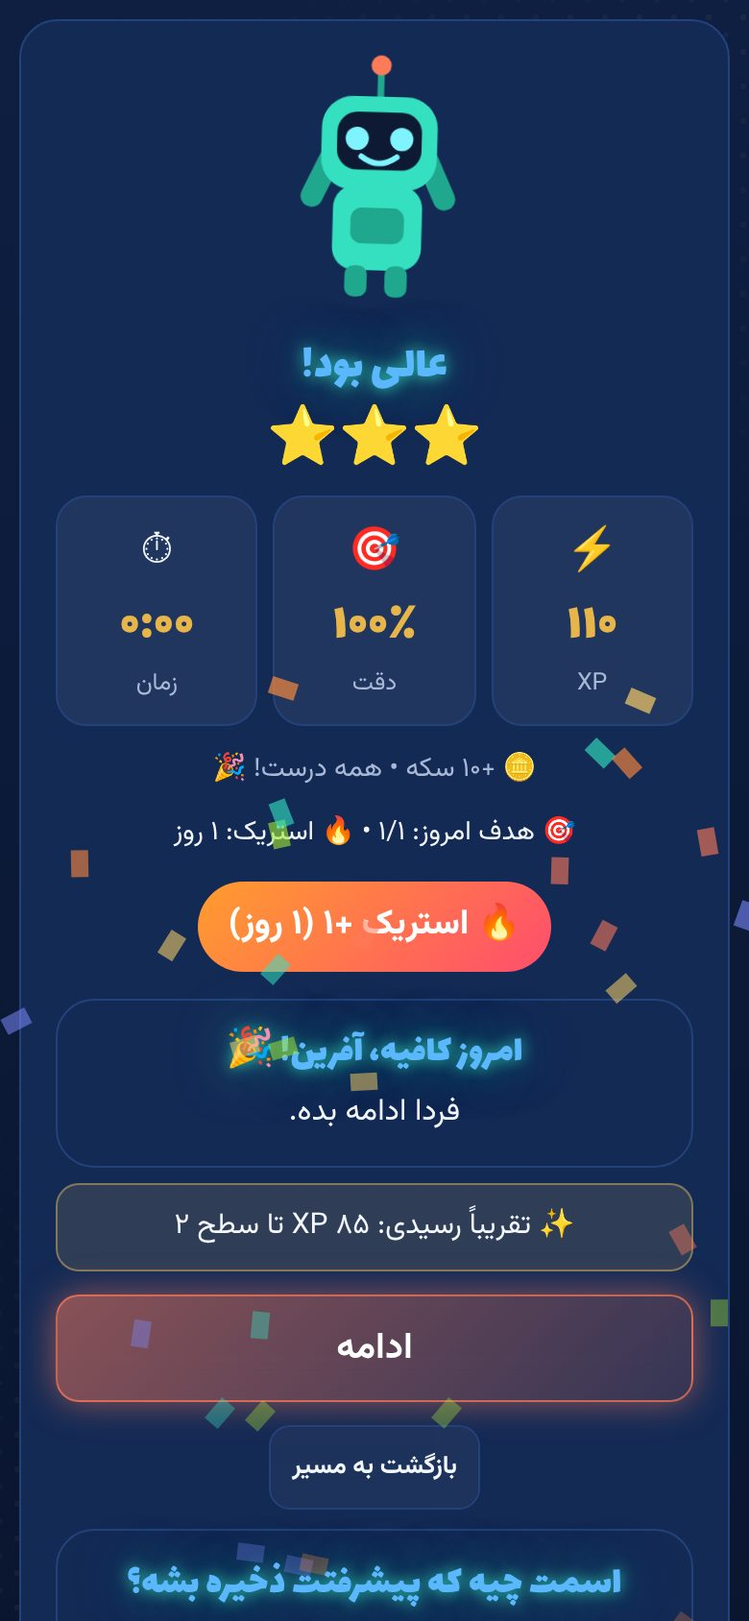
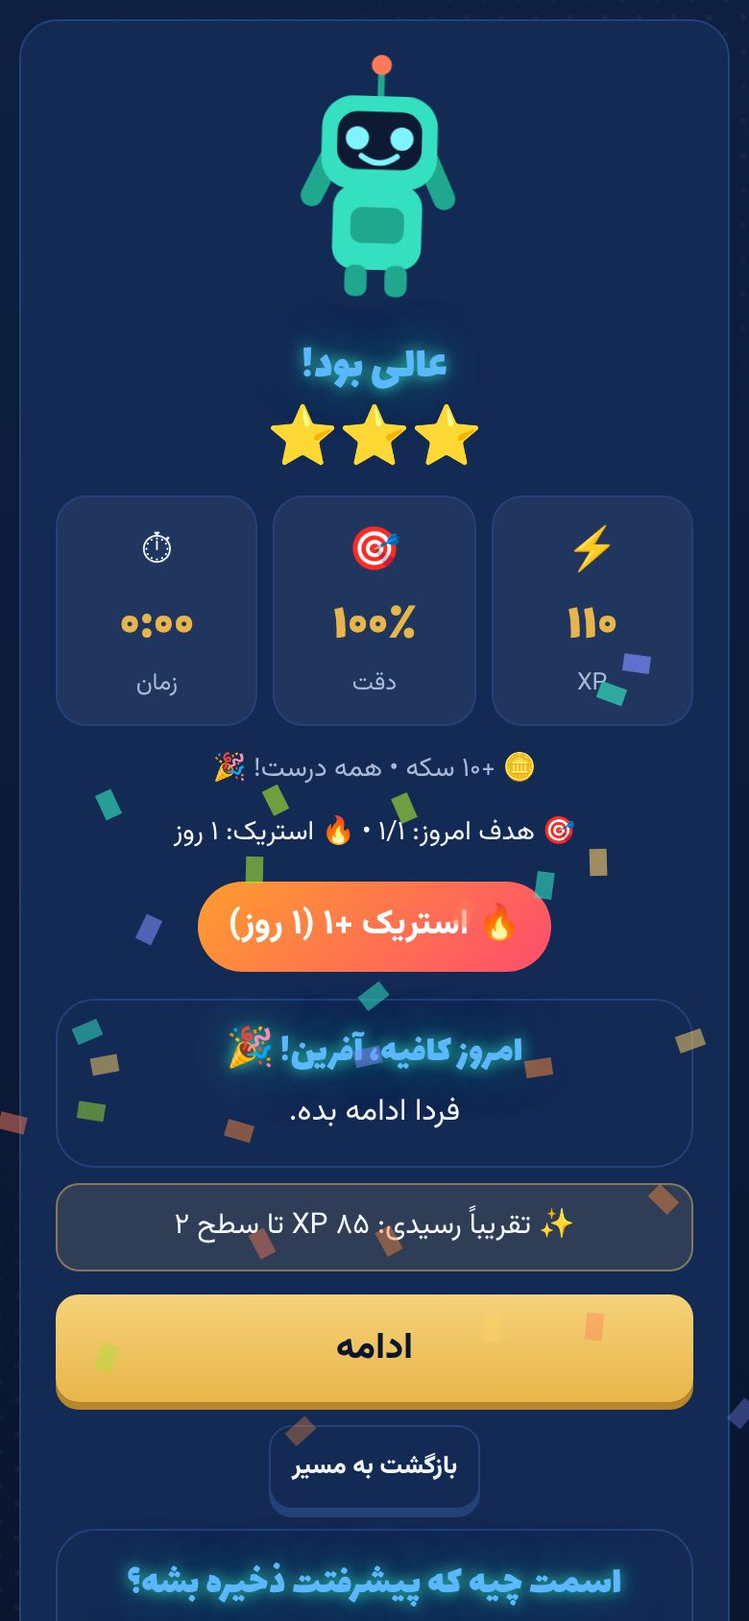
riazi-land: ui P0-2 — button system (gold primary, surface secondary, neutral disabled) + single-primary test
Claude-Session: https://claude.ai/code/session_01VDPptadfr94w4emVaDL2Bd

diff --git a/riazi-land/index.html b/riazi-land/index.html
@@ -2800,6 +2800,22 @@ body:before{content:"";position:fixed;inset:0;pointer-events:none;z-index:0;opac
 .lsn-bar.ok{background:#0F3A44;border-top-color:var(--c-ok)}
 .lsn-bar.bad{background:#3A2440;border-top-color:var(--c-bad)}
 .card,.mission{background:var(--c-surface);border:1px solid var(--c-line);border-top:1px solid var(--c-line);border-radius:var(--r-lg);clip-path:none;box-shadow:none;backdrop-filter:none;-webkit-backdrop-filter:none}
+/* ===== UI P0-2: سیستم دکمه ===== */
+.btn{min-height:44px;font-weight:800;border-radius:var(--r-sm)!important;text-shadow:none!important;backdrop-filter:none!important;-webkit-backdrop-filter:none!important;
+  background:var(--c-surface)!important;color:var(--c-text)!important;border:1px solid var(--c-line)!important;box-shadow:0 4px 0 var(--c-line)!important;
+  transition:transform var(--t-fast),box-shadow var(--t-fast),background var(--t-fast)}
+.btn:hover{transform:none;background:var(--c-surface-2)!important;box-shadow:0 4px 0 var(--c-line)!important}
+.btn:active{transform:translateY(4px);box-shadow:0 0 0 var(--c-line)!important}
+.btn.ye{color:var(--c-gold-hi)!important;border-color:var(--c-gold-lo)!important;box-shadow:0 4px 0 var(--c-gold-lo)!important}
+.btn.ye:hover{box-shadow:0 4px 0 var(--c-gold-lo)!important}
+.btn.ye:active{box-shadow:0 0 0 var(--c-gold-lo)!important}
+.btn.on,.btn[aria-pressed=true]{border-color:var(--c-gold)!important;color:var(--c-gold-hi)!important;outline:0;box-shadow:0 4px 0 var(--c-gold-lo)!important}
+.btn.mg,.btn-primary{background:linear-gradient(180deg,var(--c-gold-hi),var(--c-gold))!important;color:var(--c-on-gold)!important;border:0!important;box-shadow:0 4px 0 var(--c-gold-lo)!important;font-weight:800}
+.btn.mg:hover,.btn-primary:hover{background:linear-gradient(180deg,var(--c-gold-hi),var(--c-gold))!important;box-shadow:0 4px 0 var(--c-gold-lo)!important}
+.btn.mg:active,.btn-primary:active{transform:translateY(4px);box-shadow:0 0 0 var(--c-gold-lo)!important}
+.btn[disabled],.btn:disabled,.btn.mg[disabled],.btn-primary[disabled]{background:var(--c-surface)!important;color:var(--c-muted)!important;border:1px solid var(--c-line)!important;box-shadow:none!important;opacity:1!important;transform:none!important;pointer-events:none;filter:none!important;animation:none!important}
+.kpk:active{background:var(--c-surface-2)}
+#s-reg .btn.mg{min-width:0}
 @media(min-width:900px){#app{max-width:760px}.lsn-bar{max-width:760px}#bnav button{max-width:170px}}
 @media (prefers-reduced-motion:reduce){*,*:before,*:after{animation-duration:.01ms!important;animation-iteration-count:1!important;transition-duration:.01ms!important;scroll-behavior:auto!important}}
 </style>
@@ -2851,7 +2867,7 @@ body:before{content:"";position:fixed;inset:0;pointer-events:none;z-index:0;opac
     const rp=n.st==='skip'&&n.kind!=='C';
     let h=rp?`<button type="button" class="pcir pre" data-ch="${c.i}" data-j="${n.j}" aria-label="${(n.kind==='B'?'نبرد دوباره ':'تمرین ')+lab} (رد شده)">${emoji}</button>`:`<span class="pcir" role="img" aria-label="${lab+(n.st==='skip'?' (رد شده)':stt)}">${n.st==='locked'?'🔒':emoji}</span>`;
     if((n.st==='done'||n.st==='skip')&&n.kind==='L'&&n.stars>0)h+=`<span class="pst" role="img" aria-label="${fa(n.stars)} ستاره از ۳">${'⭐'.repeat(n.stars)}${'☆'.repeat(3-n.stars)}</span>`;
-    if(n.st==='cur')h+=`<button type="button" class="btn mg pgo" data-ch="${c.i}" data-j="${n.j}" aria-label="${(n.kind==='C'?'باز کردن ':'شروع ')+lab}">${n.kind==='C'?'باز کردن':'شروع'}</button>`;
+    if(n.st==='cur')h+=`<button type="button" class="btn btn-primary mg pgo" data-ch="${c.i}" data-j="${n.j}" aria-label="${(n.kind==='C'?'باز کردن ':'شروع ')+lab}">${n.kind==='C'?'باز کردن':'شروع'}</button>`;
     return`<div class="pn ${n.st} k${n.kind}" data-st="${n.st}" data-k="${n.kind}" style="--x:${x}px"${n.st==='cur'?' id="pcur"':''}>${h}</div>`;
   }
   function pathShow(){
@@ -2866,7 +2882,7 @@ body:before{content:"";position:fixed;inset:0;pointer-events:none;z-index:0;opac
     bossT0=Date.now();bossPrev=(S.adv||{})[g]||0;go('adv');advFight(i); /* غول فصل = همان نبرد موجود */
   }
   function chestOpen(g,i){const cr=rec(g,i),first=!cr.c;cr.c=1;const gc=first?v9Coins(10,'صندوقچه'):0;persist();pathShow();v9Hdr();SFX.win();
-    modal(`<div class="center"><div style="font-size:64px">🎁</div><h3 class="neon" style="font-size:22px">صندوقچه باز شد!</h3><p style="line-height:2">آفرین! ${gc?'۱۰ سکه گرفتی 🪙. ':''}حالا نوبت غول فصل است.</p><button type="button" class="btn mg" id="chOk" style="min-height:44px">ادامه</button></div>`);
+    modal(`<div class="center"><div style="font-size:64px">🎁</div><h3 class="neon" style="font-size:22px">صندوقچه باز شد!</h3><p style="line-height:2">آفرین! ${gc?'۱۰ سکه گرفتی 🪙. ':''}حالا نوبت غول فصل است.</p><button type="button" class="btn btn-primary mg" id="chOk" style="min-height:44px">ادامه</button></div>`);
     $('#chOk').onclick=()=>$('#modal').classList.remove('on');
   }
 
@@ -3212,7 +3228,7 @@ body:before{content:"";position:fixed;inset:0;pointer-events:none;z-index:0;opac
       else body=`<div class="kpv" id="lsVal" role="textbox" aria-readonly="true" aria-label="پاسخ تو">؟</div><div class="kp" role="group" aria-label="کیبورد عددی">${KEYS.map(([k,t,cap])=>`<button type="button" class="kpk${k==='0'?' w2':''}" data-k="${k}" aria-label="${k==='bs'?'پاک کردن':k==='-'?'منفی':k==='.'?'ممیز اعشاری':k==='/'?'خط کسری':t}">${cap?`<b>${t}</b><small>${cap}</small>`:t}</button>`).join('')}</div>`;
       $('#pqBox').innerHTML=`<div class="lsn-top"><button type="button" class="lsx" id="lsX" aria-label="خروج از درس">✕</button><div class="lsn-prog" role="progressbar" aria-valuemin="0" aria-valuemax="${s.total}" aria-valuenow="${s.done}"><i style="width:${s.done/s.total*100}%"></i></div><span class="lsn-cnt">${fa(s.done)}/${fa(s.total)}</span><span class="combo" id="lsCombo" ${s.combo>=5?'':'hidden'}>🔥 کمبو ×۲</span></div>
       <h3 class="lsn-q">${rich(c.q)}</h3>${body}
-      <div class="lsn-bar" id="lsBar"><div class="lsfb" id="lsFb" role="status" aria-live="polite"></div><button type="button" class="btn mg" id="lsGo" disabled style="min-height:48px;width:100%">بررسی</button></div>`;
+      <div class="lsn-bar" id="lsBar"><div class="lsfb" id="lsFb" role="status" aria-live="polite"></div><button type="button" class="btn btn-primary mg" id="lsGo" disabled style="min-height:48px;width:100%">بررسی</button></div>`;
       $('#lsX').onclick=()=>this.exit();
       $('#lsGo').onclick=()=>s.checked?this.next():this.check();
       $$('#pqBox .opt').forEach(b=>b.onclick=()=>this.pick(+b.dataset.k));
@@ -3246,7 +3262,7 @@ body:before{content:"";position:fixed;inset:0;pointer-events:none;z-index:0;opac
       if(!s.queue.length)return this.end();
       this.show();
     },
-    exit(){modal(`<h3 class="neon" style="font-size:21px">خروج از درس؟</h3><p style="line-height:2">پیشرفت این درس از دست میرود. خارج میشوی؟</p><div class="row" style="justify-content:center"><button type="button" class="btn mg" id="lxYes" style="min-height:44px">بله، خارج شو</button><button type="button" class="btn gh" id="lxNo" style="min-height:44px">ادامهٔ درس</button></div>`);
+    exit(){modal(`<h3 class="neon" style="font-size:21px">خروج از درس؟</h3><p style="line-height:2">پیشرفت این درس از دست میرود. خارج میشوی؟</p><div class="row" style="justify-content:center"><button type="button" class="btn btn-primary mg" id="lxYes" style="min-height:44px">بله، خارج شو</button><button type="button" class="btn btn-secondary gh" id="lxNo" style="min-height:44px">ادامهٔ درس</button></div>`);
       $('#lxNo').onclick=()=>$('#modal').classList.remove('on');
       $('#lxYes').onclick=()=>{$('#modal').classList.remove('on');this.st=null;go('path')}},
     end(){
@@ -3282,7 +3298,7 @@ body:before{content:"";position:fixed;inset:0;pointer-events:none;z-index:0;opac
     <label class="f" for="suPass">رمز عبور</label><input class="v9in" id="suPass" type="password" dir="ltr" maxlength="40" autocomplete="off" placeholder="••••••">
     <details style="margin:8px 0"><summary style="min-height:44px;display:flex;align-items:center;cursor:pointer">بیشتر</summary><label class="f" for="suPh">شمارهٔ موبایل (اختیاری)</label><input class="v9in" id="suPh" dir="ltr" inputmode="numeric" maxlength="11" autocomplete="off" placeholder="09123456789"></details>
     <div class="msg bad" id="suErr" role="alert" style="display:none;min-height:0;margin:8px 0"></div>
-    <div class="row" style="justify-content:center;margin-top:8px"><button type="button" class="btn mg" id="suGo" style="min-height:44px">ذخیرهٔ پیشرفت</button><button type="button" class="btn gh" id="suLater" style="min-height:44px">بعداً</button></div>`}
+    <div class="row" style="justify-content:center;margin-top:8px"><button type="button" class="btn btn-primary mg" id="suGo" style="min-height:44px">ذخیرهٔ پیشرفت</button><button type="button" class="btn btn-secondary gh" id="suLater" style="min-height:44px">بعداً</button></div>`}
   /* نام کاربری مهمان → نام کاربری واقعی؛ همهٔ دادهها (d و کلیدهای wh_/tm_/mv_) منتقل میشود و رمز با همان sha() ثبتنام عادی هش میشود */
   async function guestSignup(name,u,pass,phone){
     if(!isGuest())return'حساب مهمان نیست';
@@ -3309,19 +3325,19 @@ body:before{content:"";position:fixed;inset:0;pointer-events:none;z-index:0;opac
 
   /* ---------- اول بازی، بعد ثبتنام: خوشآمد ← پایه ← تعیین سطح ۵ سؤالی ← نتیجه ← درس اول ---------- */
   const reg=$('#s-reg'),ob=document.createElement('div');ob.id='obBox';ob.className='card regbox';reg.appendChild(ob);
-  reg.querySelector('.regbox:not(#obBox)').insertAdjacentHTML('beforeend','<div class="center" style="margin-top:8px"><button type="button" class="btn sm gh" id="fmBack" style="min-height:44px">→ بازگشت</button></div>');
+  reg.querySelector('.regbox:not(#obBox)').insertAdjacentHTML('beforeend','<div class="center" style="margin-top:8px"><button type="button" class="btn btn-secondary sm gh" id="fmBack" style="min-height:44px">→ بازگشت</button></div>');
   const setView=v=>{reg.dataset.v=v;window.scrollTo(0,0)};
   let OB=null;
   function obWelcome(){
     setView('welcome');OB=null;
-    ob.innerHTML=`<div class="center"><p class="muted" style="margin:0 0 12px">در ۳ دقیقه ریاضی را بازیوار یاد بگیر ✨</p><button type="button" class="btn mg" id="wlGo" style="min-height:64px;font-size:22px;width:100%;white-space:nowrap;display:flex">بزن بریم! 🚀</button><div style="margin-top:14px"><button type="button" class="btn sm gh" id="wlHave" style="min-height:44px">حساب دارم</button></div></div>`;
+    ob.innerHTML=`<div class="center"><p class="muted" style="margin:0 0 12px">در ۳ دقیقه ریاضی را بازیوار یاد بگیر ✨</p><button type="button" class="btn btn-primary mg" id="wlGo" style="min-height:64px;font-size:22px;width:100%;white-space:nowrap;display:flex">بزن بریم! 🚀</button><div style="margin-top:14px"><button type="button" class="btn btn-secondary sm gh" id="wlHave" style="min-height:44px">حساب دارم</button></div></div>`;
     $('#wlGo').onclick=()=>{SFX.init();SFX.click();obGrade()};
     $('#wlHave').onclick=()=>{SFX.init();SFX.click();setView('form');$('.tabs button[data-m="login"]').click()};
   }
   $('#fmBack').onclick=()=>{SFX.click();obWelcome()};
   function obGrade(){
     setView('grade');
-    ob.innerHTML=`<h2 class="neon center" style="font-size:26px">کدام پایهای؟</h2><div class="gcards">${[7,8,9].map(g=>`<button type="button" class="gcard" data-g="${g}"><b>${fa(g)}</b><span>پایهٔ ${GN[g]}</span></button>`).join('')}</div><div class="center"><button type="button" class="btn sm gh" id="gdBack" style="min-height:44px">→ بازگشت</button></div>`;
+    ob.innerHTML=`<h2 class="neon center" style="font-size:26px">کدام پایهای؟</h2><div class="gcards">${[7,8,9].map(g=>`<button type="button" class="gcard" data-g="${g}"><b>${fa(g)}</b><span>پایهٔ ${GN[g]}</span></button>`).join('')}</div><div class="center"><button type="button" class="btn btn-secondary sm gh" id="gdBack" style="min-height:44px">→ بازگشت</button></div>`;
     $$('#obBox .gcard').forEach(b=>b.onclick=()=>{SFX.init();SFX.click();obPlace(+b.dataset.g)});
     $('#gdBack').onclick=()=>{SFX.click();obWelcome()};
   }
@@ -3346,7 +3362,7 @@ body:before{content:"";position:fixed;inset:0;pointer-events:none;z-index:0;opac
   function obResult(){
     const{g,q,ans}=OB,okN=ans.filter(a=>a.ok).length,w=ans.find(a=>!a.ok),X0=w?w.ch:q[q.length-1].ch,X=Math.min(X0,3,CH[g].length-1);OB.X=X;OB.okN=okN;
     setView('result');
-    ob.innerHTML=`<div class="center"><div style="font-size:56px">🎯</div><p class="muted" style="margin:0">${fa(okN)} پاسخ درست از ${fa(q.length)}</p><h2 class="neon" style="font-size:25px;margin:6px 0">تو از فصل ${fa(X+1)} شروع میکنی!</h2><p style="font-size:18px;margin:0 0 8px"><b>${esc(CH[g][X])}</b></p>${X>0?`<p class="muted" style="font-size:14px;line-height:1.9">فصلهای ${fa(1)} تا ${fa(X)} «رد شده» علامت میخورند؛ قفل نیستند و هر وقت خواستی برمیگردی.</p>`:''}<button type="button" class="btn mg" id="obStart" style="min-height:56px;font-size:19px;width:100%;white-space:nowrap;display:flex">شروع درس اول</button></div>`;
+    ob.innerHTML=`<div class="center"><div style="font-size:56px">🎯</div><p class="muted" style="margin:0">${fa(okN)} پاسخ درست از ${fa(q.length)}</p><h2 class="neon" style="font-size:25px;margin:6px 0">تو از فصل ${fa(X+1)} شروع میکنی!</h2><p style="font-size:18px;margin:0 0 8px"><b>${esc(CH[g][X])}</b></p>${X>0?`<p class="muted" style="font-size:14px;line-height:1.9">فصلهای ${fa(1)} تا ${fa(X)} «رد شده» علامت میخورند؛ قفل نیستند و هر وقت خواستی برمیگردی.</p>`:''}<button type="button" class="btn btn-primary mg" id="obStart" style="min-height:56px;font-size:19px;width:100%;white-space:nowrap;display:flex">شروع درس اول</button></div>`;
     $('#obStart').onclick=()=>{SFX.init();SFX.click();obStart()};
   }
   function obStart(){
@@ -3455,7 +3471,7 @@ body:before{content:"";position:fixed;inset:0;pointer-events:none;z-index:0;opac
   function buyItem(it){
     SFX.init();
     if((S.coins||0)<it.p){SFX.err();toast('سکهٔ کافی نداری؛ درس بخوان و سکه جمع کن 💪');return}
-    modal(`<h3 class="neon" style="font-size:21px">خرید «${esc(it.n)}»</h3><p style="line-height:2">با ${fa(it.p)} سکه میخری؟ بعد از خرید ${fa((S.coins||0)-it.p)} سکه برایت میماند.</p><div class="row" style="justify-content:center"><button type="button" class="btn mg" id="bYes" style="min-height:44px">بله، بخر</button><button type="button" class="btn gh" id="bNo" style="min-height:44px">نه</button></div>`);
+    modal(`<h3 class="neon" style="font-size:21px">خرید «${esc(it.n)}»</h3><p style="line-height:2">با ${fa(it.p)} سکه میخری؟ بعد از خرید ${fa((S.coins||0)-it.p)} سکه برایت میماند.</p><div class="row" style="justify-content:center"><button type="button" class="btn btn-primary mg" id="bYes" style="min-height:44px">بله، بخر</button><button type="button" class="btn btn-secondary gh" id="bNo" style="min-height:44px">نه</button></div>`);
     $('#bNo').onclick=()=>$('#modal').classList.remove('on');
     $('#bYes').onclick=()=>{$('#modal').classList.remove('on');
       if((S.coins||0)<it.p){toast('سکهٔ کافی نداری');return}
@@ -3541,7 +3557,7 @@ body:before{content:"";position:fixed;inset:0;pointer-events:none;z-index:0;opac
     const n=streakInit().n;
     return`<div class="streakup" role="status">🔥 استریک +۱ <b>(${fa(n)} روز)</b></div>
     <div class="card goalcard" id="goalDone"><h3 class="neon" style="font-size:22px;margin:0">امروز کافیه، آفرین! 🎉</h3><p style="margin:4px 0 10px">فردا ادامه بده.</p>
-    <div class="row" style="justify-content:center"><button type="button" class="btn mg" id="pqGo" style="min-height:48px;min-width:120px">باشه</button><button type="button" class="btn gh" id="pqMore" style="min-height:48px">یکی دیگه</button></div></div>`;
+    <div class="row" style="justify-content:center"><button type="button" class="btn btn-primary mg" id="pqGo" style="min-height:48px;min-width:120px">باشه</button><button type="button" class="btn btn-secondary gh" id="pqMore" style="min-height:48px">یکی دیگه</button></div></div>`;
   }
 
   /* ---- انتخاب هدف روزانه + تقویم ماهانه (پروفایل) ---- */
@@ -3559,7 +3575,7 @@ body:before{content:"";position:fixed;inset:0;pointer-events:none;z-index:0;opac
     const len=monthLen(first),wd=(first+5)%7,on=new Set(S.days||[]),cells=[];
     for(let i=0;i<wd;i++)cells.push('<i class="cal-e"></i>');
     for(let d=1;d<=len;d++){const dn=first+d-1,a=on.has(dn);cells.push(`<span class="cal-d${a?' cal-on':''}${dn===T?' cal-t':''}"${a?' aria-label="'+fa(d)+' '+JM[m-1]+' — هدف انجام شد"':''}>${a?'🔥':fa(d)}</span>`)}
-    return`<div class="card" id="calBox" style="margin-top:12px"><div class="lgh"><button type="button" class="btn sm gh" id="calPrev" aria-label="ماه قبل" style="min-height:44px;min-width:44px">›</button><h3 style="font-size:18px;color:var(--ye)" id="calTitle">📅 ${JM[m-1]} ${fa(y)}</h3><button type="button" class="btn sm gh" id="calNext" aria-label="ماه بعد" style="min-height:44px;min-width:44px">‹</button></div>
+    return`<div class="card" id="calBox" style="margin-top:12px"><div class="lgh"><button type="button" class="btn btn-secondary sm gh" id="calPrev" aria-label="ماه قبل" style="min-height:44px;min-width:44px">›</button><h3 style="font-size:18px;color:var(--ye)" id="calTitle">📅 ${JM[m-1]} ${fa(y)}</h3><button type="button" class="btn btn-secondary sm gh" id="calNext" aria-label="ماه بعد" style="min-height:44px;min-width:44px">‹</button></div>
     <div class="cal" role="grid">${['ش','ی','د','س','چ','پ','ج'].map(w=>`<b class="cal-h">${w}</b>`).join('')}${cells.join('')}</div></div>`;
   }
   function bindCal(){const f=d=>()=>{SFX.click();calOff+=d;const e=$('#calBox');if(e){e.outerHTML=calHtml();bindCal()}};$('#calPrev').onclick=f(-1);$('#calNext').onclick=f(1)}
@@ -3609,8 +3625,8 @@ body:before{content:"";position:fixed;inset:0;pointer-events:none;z-index:0;opac
       <div class="egoal" id="eGoal">🎯 هدف امروز: ${fa(Math.min(n,gl))}/${fa(gl)} • 🔥 استریک: ${fa(k.n||0)} روز</div>
       ${o.up?`<div class="streakup" role="status">🔥 استریک +۱ <b>(${fa(k.n)} روز)</b></div><div class="card goalcard" id="goalDone"><h3 class="neon" style="font-size:20px;margin:0">امروز کافیه، آفرین! 🎉</h3><p style="margin:2px 0 0">فردا ادامه بده.</p></div>`:''}
       ${tg?`<p class="etg" id="eTarget">✨ تقریباً رسیدی: ${tg}</p>`:''}
-      <button type="button" class="btn mg endnext" id="pqMore" style="min-height:56px;width:100%;font-size:19px">${lost?'دوباره امتحان کن':'ادامه'}</button>
-      <button type="button" class="btn sm gh" id="pqGo" style="min-height:44px;margin-top:8px">بازگشت به مسیر</button>
+      <button type="button" class="btn btn-primary mg endnext" id="pqMore" style="min-height:56px;width:100%;font-size:19px">${lost?'دوباره امتحان کن':'ادامه'}</button>
+      <button type="button" class="btn btn-secondary sm gh" id="pqGo" style="min-height:44px;margin-top:8px">بازگشت به مسیر</button>
       ${o.nag?'<div class="card" id="suBox" style="margin-top:10px;padding:12px">'+signupHtml()+'</div>':''}</div>`;
     countUp();
     if(o.nag)bindSignup($('#suBox'),()=>go('path'));
@@ -3639,11 +3655,11 @@ body:before{content:"";position:fixed;inset:0;pointer-events:none;z-index:0;opac
     const e=S.eq||{},xp=xpOf(),lv=Math.floor(xp/200)+1;
     secProf.innerHTML=`<div class="card center"><h2 class="neon" style="font-size:28px">👤 پروفایل</h2>
     <div id="profAv" style="width:120px;margin:0 auto">${rbSvg(true)}</div><h3 style="font-size:24px">${esc(S.name||'')}</h3>
-    <div class="row" style="justify-content:center;margin:8px 0"><span class="chip">پایهٔ ${GN[S.grade||8]}</span><span class="chip">سطح ${fa(lv)}</span><span class="chip">⚡ ${fa(xp)} XP</span><span class="chip">🪙 ${fa(S.coins||0)}</span></div>${isGuest()?'<p class="muted" style="font-size:14px;line-height:1.9">حساب مهمان: پیشرفتت هنوز ذخیره نشده.</p><button type="button" class="btn mg" id="pSave" style="min-height:44px">💾 ذخیرهٔ پیشرفت</button>':''}</div>
+    <div class="row" style="justify-content:center;margin:8px 0"><span class="chip">پایهٔ ${GN[S.grade||8]}</span><span class="chip">سطح ${fa(lv)}</span><span class="chip">⚡ ${fa(xp)} XP</span><span class="chip">🪙 ${fa(S.coins||0)}</span></div>${isGuest()?'<p class="muted" style="font-size:14px;line-height:1.9">حساب مهمان: پیشرفتت هنوز ذخیره نشده.</p><button type="button" class="btn btn-primary mg" id="pSave" style="min-height:44px">💾 ذخیرهٔ پیشرفت</button>':''}</div>
     ${goalHtml()}${calHtml()}
     ${colHtml()}
     <div class="card" style="margin-top:12px"><h3 style="font-size:20px;color:var(--ye)">بیشتر</h3><div class="pmore" id="pMore">${MORE.map(([id,i,t])=>`<button type="button" data-more="${id}" aria-label="${t}"><i aria-hidden="true">${i}</i><span>${t}</span></button>`).join('')}</div>
-    <div class="row" style="justify-content:center;margin-top:8px"><button type="button" class="btn gh" id="btnSound" style="min-height:44px">${SFX.muted?'🔇 صدا: خاموش':'🔊 صدا: روشن'}</button><button type="button" class="btn gh" id="btnSup2" style="min-height:44px">🛟 پشتیبانی</button><button type="button" class="btn gh" id="btnOut" style="min-height:44px">🚪 خروج از حساب</button></div></div>`;
+    <div class="row" style="justify-content:center;margin-top:8px"><button type="button" class="btn btn-secondary gh" id="btnSound" style="min-height:44px">${SFX.muted?'🔇 صدا: خاموش':'🔊 صدا: روشن'}</button><button type="button" class="btn btn-secondary gh" id="btnSup2" style="min-height:44px">🛟 پشتیبانی</button><button type="button" class="btn btn-secondary gh" id="btnOut" style="min-height:44px">🚪 خروج از حساب</button></div></div>`;
     $$('#pMore [data-more]').forEach(b=>b.onclick=()=>{SFX.init();SFX.click();const id=b.dataset.more;
       if(id==='report'&&!S.quiz){toast('اول خودآزمایی و پرسشنامه را تمام کن 📝');return}go(id)});
     bindGoal();bindCal();bindCol();
@@ -3652,12 +3668,12 @@ body:before{content:"";position:fixed;inset:0;pointer-events:none;z-index:0;opac
     $('#btnSup2').onclick=()=>{SFX.init();SFX.click();supportOpen()};
     $('#btnOut').onclick=()=>{SFX.click();
       if(isGuest()){modal(`<h3 class="neon" style="font-size:22px">🚪 خروج از حساب مهمان</h3><p style="line-height:2">اگر الان خارج شوی، پیشرفت مهمان <b>پاک میشود</b>. بهتر است اول پیشرفتت را ذخیره کنی.</p>
-        <div class="row" style="justify-content:center"><button type="button" class="btn mg" id="outSave" style="min-height:44px">💾 ذخیرهٔ پیشرفت</button><button type="button" class="btn gh" id="outYes" style="min-height:44px">خروج بدون ذخیره</button><button type="button" class="btn gh" id="outNo" style="min-height:44px">نه، میمانم</button></div>`);
+        <div class="row" style="justify-content:center"><button type="button" class="btn btn-primary mg" id="outSave" style="min-height:44px">💾 ذخیرهٔ پیشرفت</button><button type="button" class="btn btn-secondary gh" id="outYes" style="min-height:44px">خروج بدون ذخیره</button><button type="button" class="btn btn-secondary gh" id="outNo" style="min-height:44px">نه، میمانم</button></div>`);
         $('#outNo').onclick=()=>$('#modal').classList.remove('on');
         $('#outSave').onclick=()=>{modal(signupHtml());bindSignup($('#modal'),()=>{profShow();v9Hdr()})};
         $('#outYes').onclick=()=>{$('#modal').classList.remove('on');logout()};return}
       modal(`<h3 class="neon" style="font-size:22px">🚪 خروج از حساب</h3><p style="line-height:2">میخواهی از حساب خارج شوی؟ پیشرفتت ذخیره میماند و بعداً با نام کاربری و رمز دوباره وارد میشوی.</p>
-      <div class="row" style="justify-content:center"><button type="button" class="btn mg" id="outYes" style="min-height:44px">بله، خارج شو</button><button type="button" class="btn gh" id="outNo" style="min-height:44px">نه، میمانم</button></div>`);
+      <div class="row" style="justify-content:center"><button type="button" class="btn btn-primary mg" id="outYes" style="min-height:44px">بله، خارج شو</button><button type="button" class="btn btn-secondary gh" id="outNo" style="min-height:44px">نه، میمانم</button></div>`);
       $('#outNo').onclick=()=>$('#modal').classList.remove('on');
       $('#outYes').onclick=()=>{$('#modal').classList.remove('on');logout()};
     };

diff --git a/riazi-land/tests/smoke.js b/riazi-land/tests/smoke.js
@@ -1174,6 +1174,27 @@ T('PHASE8: no «بهزودی» / coming-soon text in the source or main scree
 
 /* ============================== PHASE 9+ : append below ============================== */
 
+/* ---- UI redesign (UI-PLAN) ---- */
+const primaries = (page) => page.evaluate(() => [...document.querySelectorAll('.btn-primary')].filter((e) => { const r = e.getBoundingClientRect(); const cs = getComputedStyle(e); return r.width > 0 && r.height > 0 && cs.visibility !== 'hidden' && !e.closest('[hidden]') && !e.closest('.screen:not(.active)'); }).map((e) => e.id || e.textContent.trim()));
+
+T('UI P0-2: at most ONE visible .btn-primary on welcome, path, lesson, end screen and shop; disabled buttons are never gold/red', async ({ browser }) => {
+  const { page, context } = await open(browser);
+  assert((await primaries(page)).length <= 1, 'welcome: ' + (await primaries(page)));
+  await register(page, { name: 'نگار احمدی', user: 'ui1', pass: '1234', grade: 8 });
+  assert((await primaries(page)).length <= 1, 'path: ' + (await primaries(page)));
+  await page.evaluate(() => Lesson.start(8, 3, 0)); await page.waitForSelector('#lsGo');
+  assert((await primaries(page)).length <= 1, 'lesson: ' + (await primaries(page)));
+  const dis = await page.evaluate(() => { const b = $('#lsGo'); const cs = getComputedStyle(b); return { d: b.disabled, bg: cs.backgroundColor, bs: cs.boxShadow }; });
+  assert(dis.d && dis.bg === 'rgb(19, 42, 85)' && dis.bs === 'none', 'disabled look: ' + JSON.stringify(dis));
+  await page.evaluate(() => { Lesson.start(8, 3, 0); for (let k = 0; k < 80 && Lesson.st; k++) { const i = v9Lesson(); if (!i) break; if (i.type === 'num') { for (const c of String(i.ans)) Lesson.key(c); } else Lesson.pick(i.ans); Lesson.check(); Lesson.next(); } });
+  await page.waitForSelector('#pqMore');
+  assert((await primaries(page)).length <= 1, 'end: ' + (await primaries(page)));
+  await page.evaluate(() => go('shop'));
+  assert((await primaries(page)).length <= 1, 'shop: ' + (await primaries(page)));
+  assert(page.errors.length === 0, 'pageerror: ' + page.errors.join(' | '));
+  await context.close();
+});
+
 /* ---------------------------------- runner ---------------------------------- */
 (async () => {
   const filter = process.argv[2] || '';
